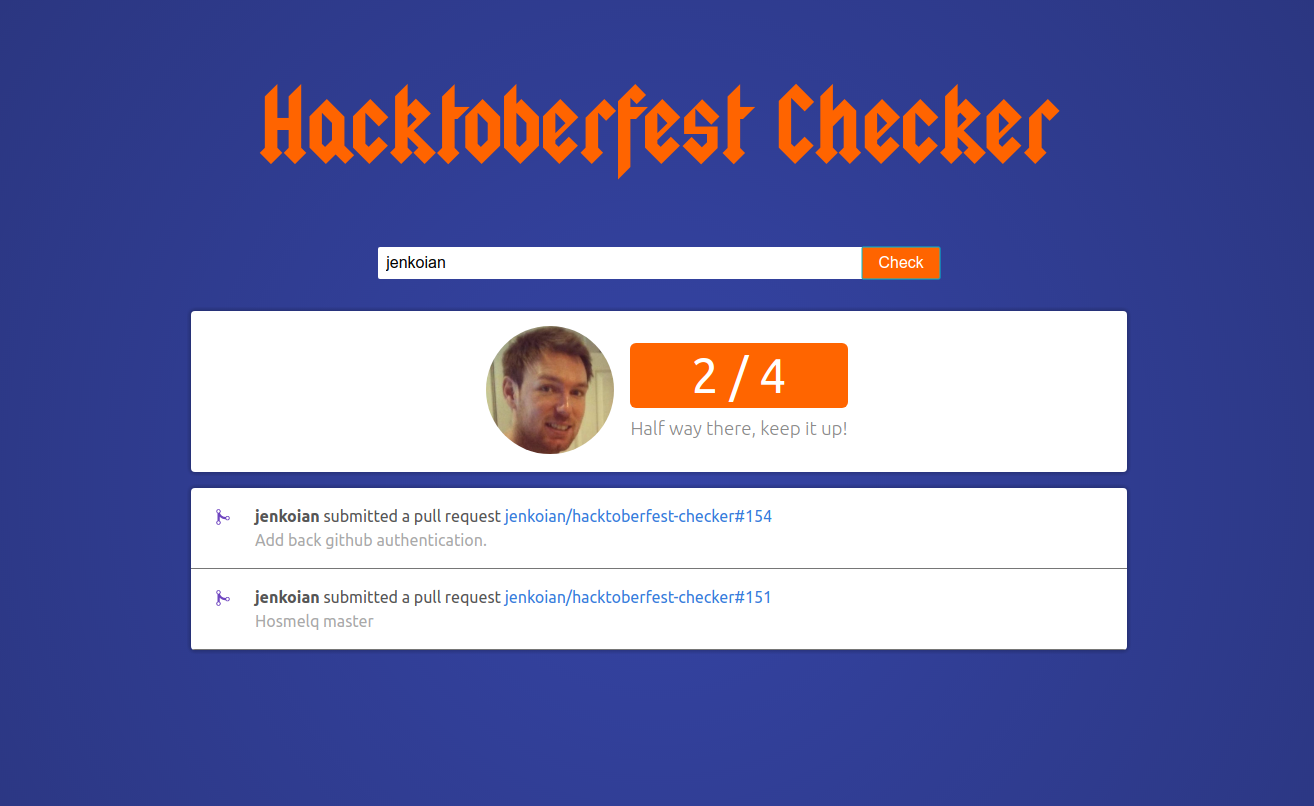
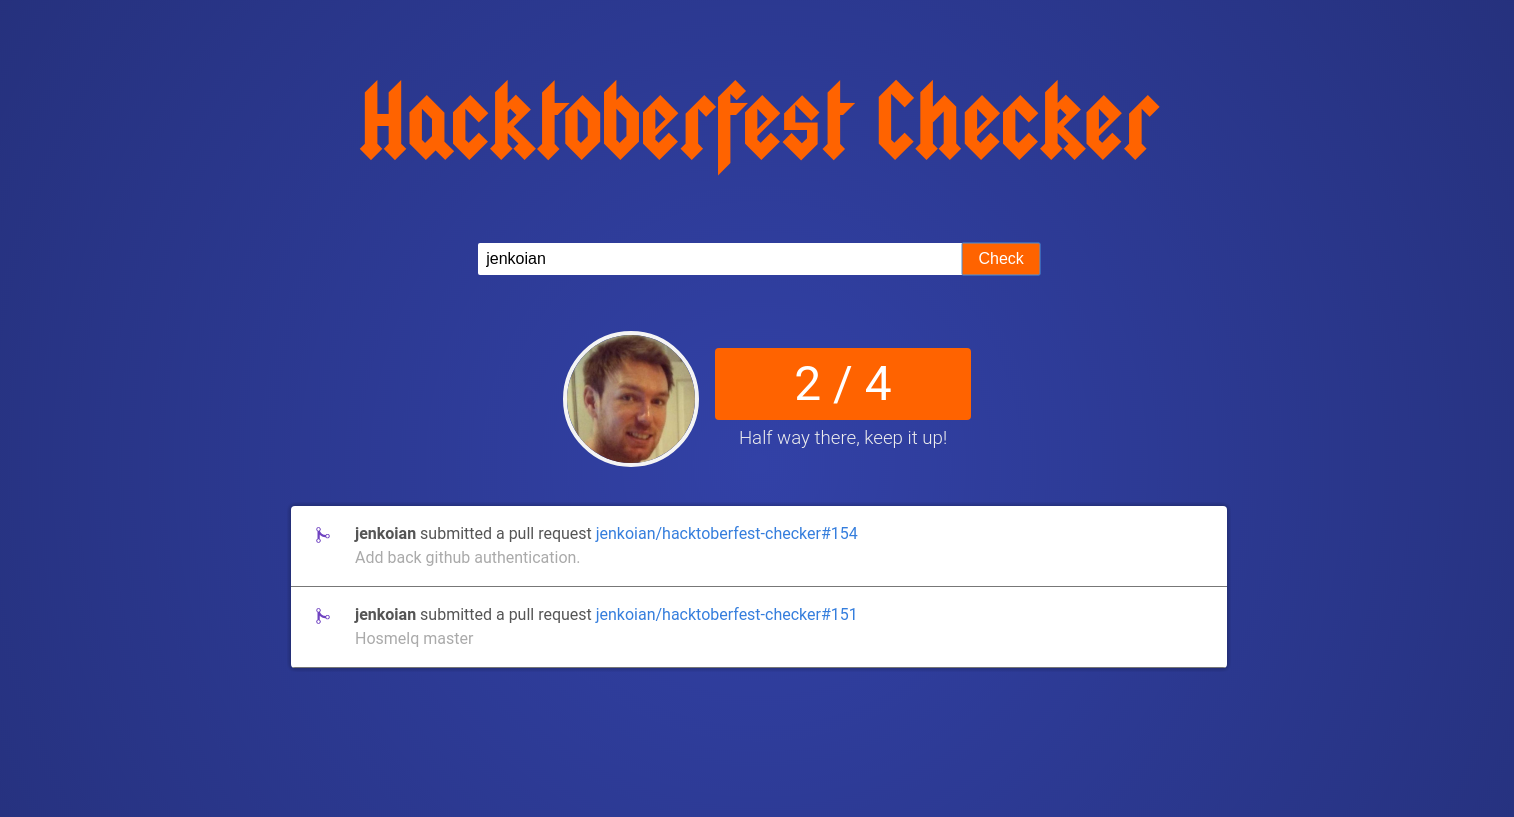
Remove white background and update screenshot

Changed region(s): [[0.1248, 0.2792, 0.8737, 0.8375], [0.1872, 0.0931, 0.8113, 0.2171]]

diff --git a/public/css/main.css b/public/css/main.css
@@ -31,7 +31,3 @@ h1 {
   flex-grow: 1;
   flex-shrink: 0;
 }
-
-.profile-stats span{
-  min-width: 200px;
-}
